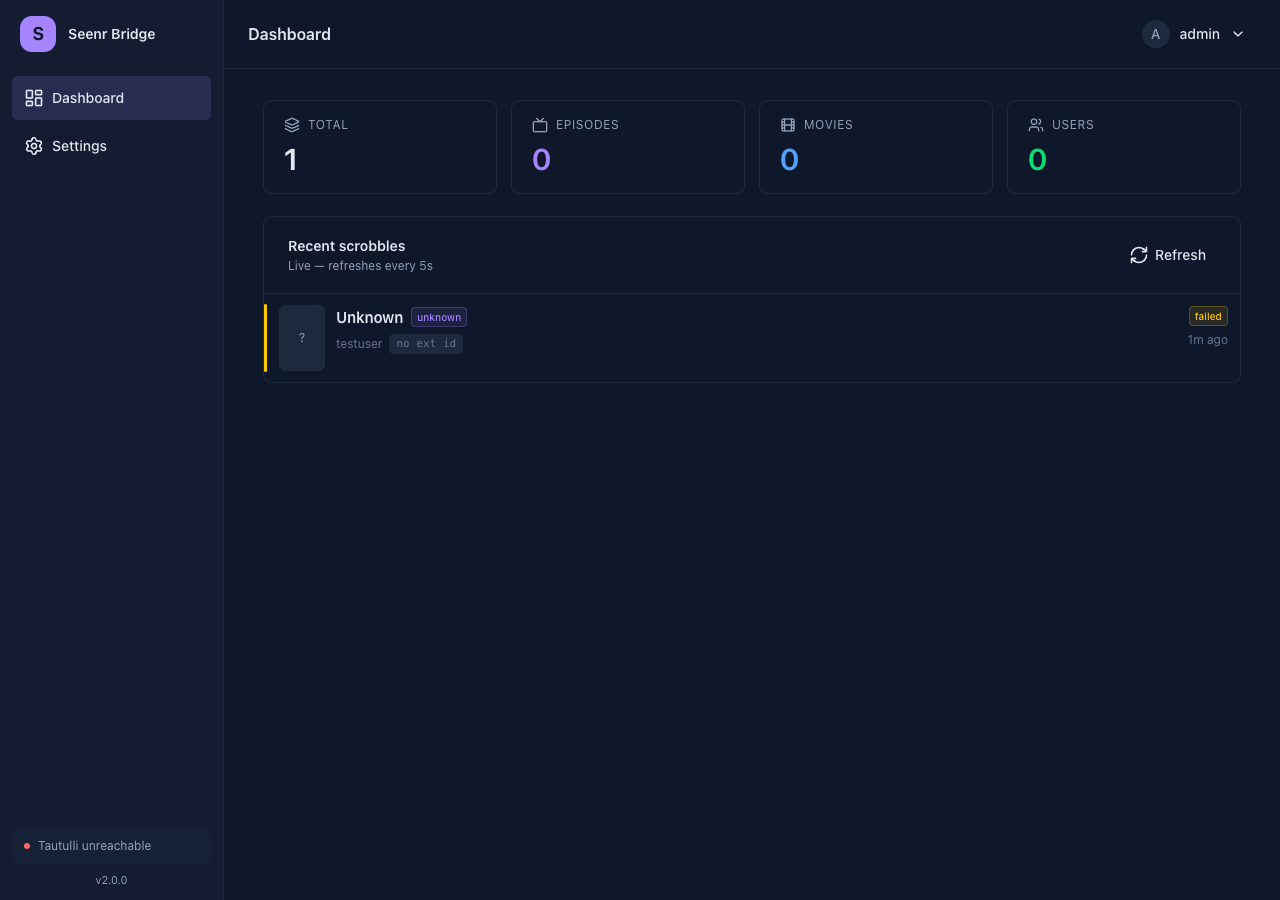
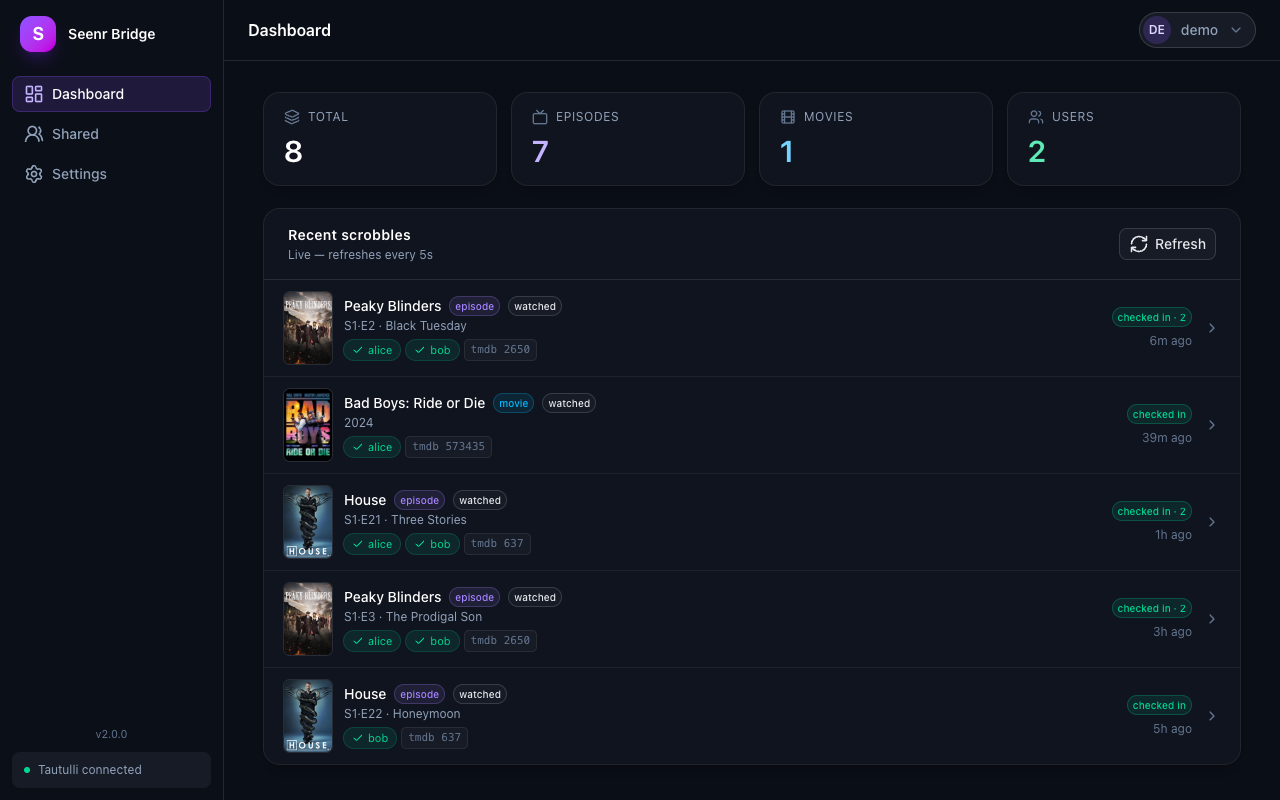
docs: refresh the dashboard screenshot and add one for Shared
The old capture predated the Shared page entirely -- its sidebar had only two
items -- and showed an empty install with a single failed event and no poster art,
which undersold the app rather than demonstrating it.

Both images come from a throwaway instance on a separate port with its own
DATA_DIR, seeded with demo profiles named alice and bob. That was deliberate: the
real dashboard would have published actual Plex usernames in a public README. The
Tautulli URL and API key were copied row-to-row from the real database and never
printed, which is what makes the real poster art resolve. The temp instance and
its data are deleted; the real database was opened read-only and is unchanged.

The dashboard shot doubles as documentation for the fan-out grouping: three of its
five entries are single co-watched watches showing two recipient chips each and a
"checked in · 2" badge, alongside the new event-type badges.

diff --git a/README.md b/README.md
@@ -106,6 +106,8 @@ That's it — play something past the watched threshold and it appears on the Da
 
 The **Shared** page is for titles more than one person watches together. Add a title, tick who watches it, and a watch by any assigned profile checks in for all of them.
 
+![The Shared page](docs/shared.png)
+
 - **Add title** opens a picker — search your TV or movie library, tick the profiles, and choose what to do about watches that already happened: sync them all retroactively, or start from now.
 - Clicking a row opens the same modal to change who it's shared with, re-run a retroactive sync, or remove it.
 
